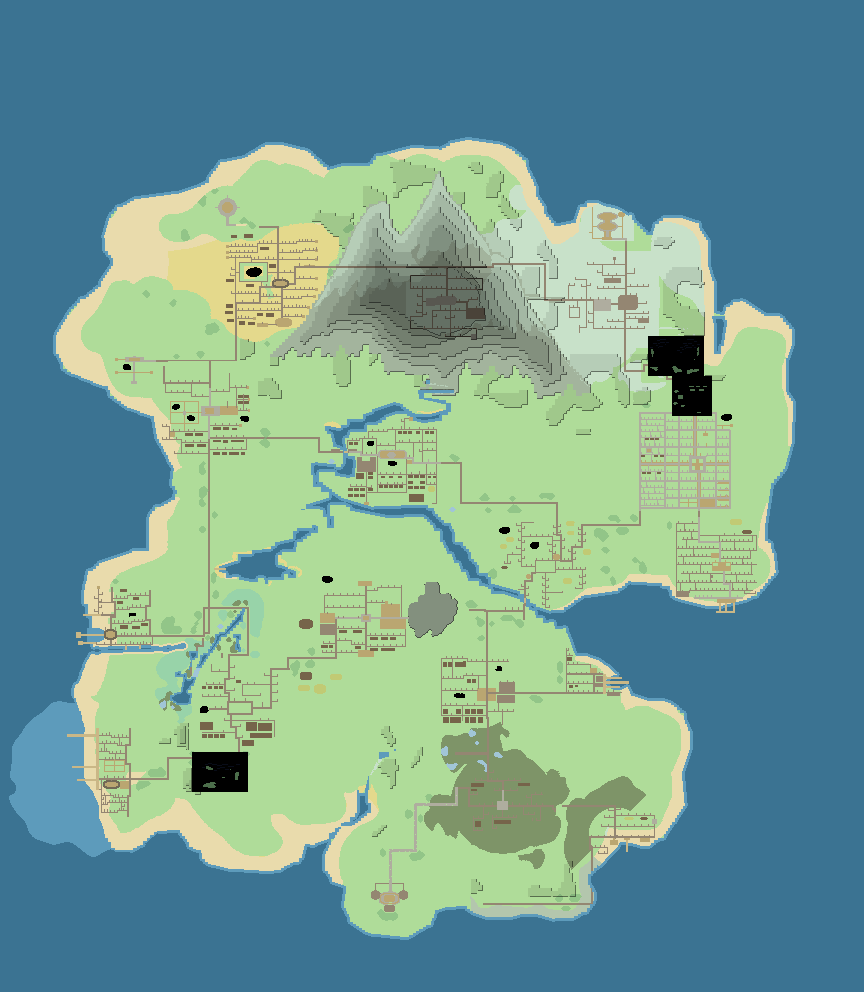
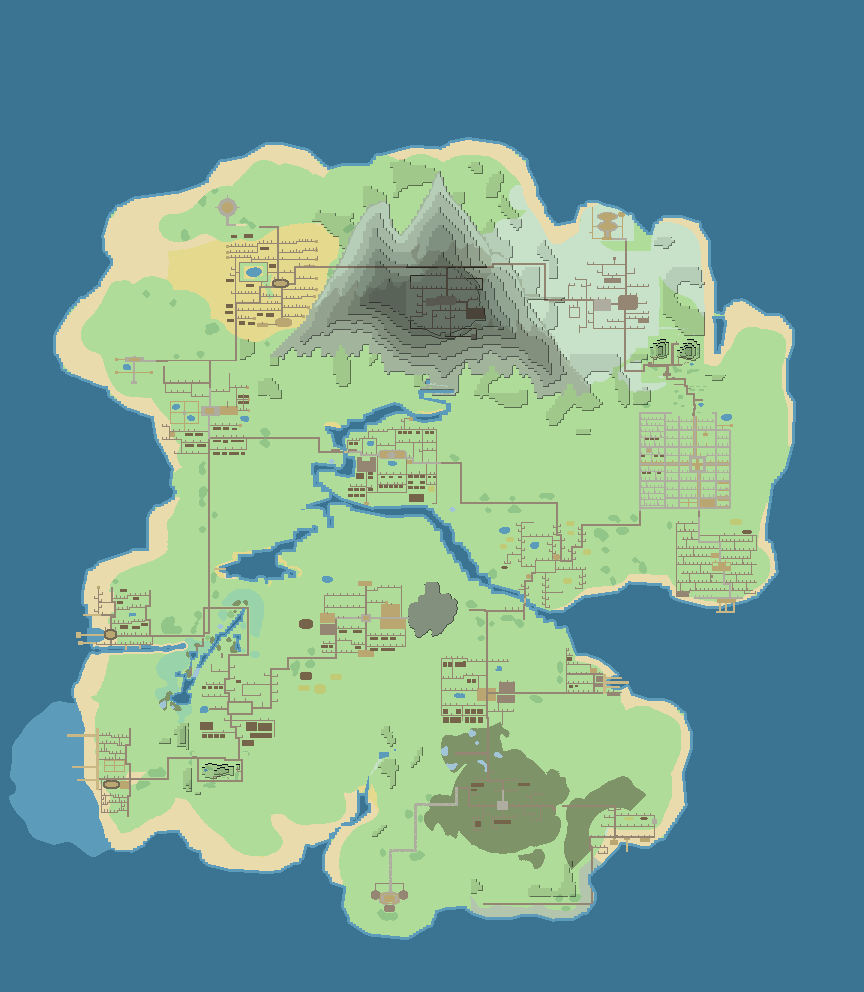
Mobile: no controls over screens; the map drags; map bake colours the lab and pond ground
- touch: on screens (menus, the map, the pause menu, the item wheel) the d-pad, A and B are hidden behind a small PAD toggle; everything there is tapped, and the button icons along the bottom are buttons; steering instructions drop out of the hints
- the world map pans with a finger; the item wheel says tap to use
- gyms on the map are a red G badge (grey once won), no labels over town names
- tools/adv-worldmap.mjs: the lab windows' materials (past the end of the palette) and village ponds get their everyday colours, no black holes in the map

Claude-Session: https://claude.ai/code/session_013d5G48wDd9cWFourTPbXme

Changed region(s): [[0.75, 0.3125, 0.8438, 0.4375], [0.2188, 0.75, 0.3125, 0.8125], [0.2812, 0.25, 0.3125, 0.2812]]

diff --git a/src/touch.js b/src/touch.js
@@ -3,12 +3,14 @@
 // (run straight from the touch handler so file pickers and the keyboard may open), swipes scroll lists, and a hidden <input> brings up the phone keyboard for text fields.
 'use strict';
 const TOUCH = window.TOUCH = (() => {
-  const T = { on: false, h: {}, p: {}, sx: 0, sy: 0 }, R = 52, SENT = String.fromCharCode(0x200b), tps = new Map(), down = {};
+  // drag: a finger moving on a screen that pans (the map asks with dragT); padOn: the PAD toggle shows A, B and the d-pad on screens
+  const T = { on: false, h: {}, p: {}, sx: 0, sy: 0, padOn: false, drag: null, dragT: 0 }, R = 52, SENT = String.fromCharCode(0x200b), tps = new Map(), down = {};
   // key (INPUT name), label, size, centre from right (or from left when negative), centre from bottom (0 = top row), when shown, colour, label in menus
   // when: all | play (walking or fighting) | fight | chat | ride | bag (an Adventure fight with items to use) | menu (a screen, not the world: the d-pad)
   const BTN = [
     ['A', 'A', 64, 92, 56, 'all', '#5ad26b'], ['B', 'B', 56, 32, 118, 'all', '#e8554e'], ['X', 'X', 56, 152, 118, 'play', '#4aa3ff'], ['Y', 'Y', 56, 92, 180, 'play', '#ffde3b'],
     ['LB', 'DODGE', 54, 214, 100, 'fight', '#c58bff', 'LB'], ['RB', 'SWAP', 50, 214, 166, 'fight', '#ff9f43', 'RB'], ['LTRT', 'MEGA', 46, 276, 134, 'fight', '#ff5fd2'],   // clear of the move bar along the bottom
+    ['PADT', 'PAD', 40, 30, 28, 'menu', '#cfd8ff'],   // screens: everything is tapped, so the pad hides behind this toggle (for anyone who wants it)
     ['START', 'MENU', 46, 36, 0, 'play', '#ffffff'], ['CHAT', 'CHAT', 46, 90, 0, 'chat', '#ffffff'], ['BACK', 'RIDE', 46, 144, 0, 'ride', '#ffffff'], ['ITEM', 'BAG', 46, 90, 0, 'bag', '#ffffff'],
     ['UP', '\u25B2', 46, -78, 140, 'menu', '#cfd8ff'], ['DOWN', '\u25BC', 46, -78, 44, 'menu', '#cfd8ff'], ['LEFT', '\u25C0', 46, -30, 92, 'menu', '#cfd8ff'], ['RIGHT', '\u25B6', 46, -126, 92, 'menu', '#cfd8ff'],
   ];
@@ -75,7 +77,8 @@ const TOUCH = window.TOUCH = (() => {
     const m = !stickOK() && !(typeof TitleScene !== 'undefined' && SCENE === TitleScene);   // a screen, not the world: the d-pad, A and B (the other buttons are the icons in its hint, ui.js)
     root.classList.toggle('menu', m); root.classList.toggle('fight', f);
     for (const k in els) {
-      const e = els[k], w = e.dataset.when, on = (w === 'bag' && bag) || w === 'all' || (w === 'play' && p) || (w === 'fight' && p && f && !m) || (w === 'chat' && c) || (w === 'ride' && r) || (w === 'menu' && m);
+      const e = els[k], w = e.dataset.when, pad = m && T.padOn && k !== 'PADT';   // on screens A, B and the d-pad only show when PAD is on
+      const on = (w === 'bag' && bag) || (w === 'all' && (!m || pad)) || (w === 'play' && p) || (w === 'fight' && p && f && !m) || (w === 'chat' && c) || (w === 'ride' && r) || (w === 'menu' && m && (k === 'PADT' || pad));
       e.style.display = on ? 'flex' : 'none';
       const l = m ? e.dataset.ml : e.dataset.l; if (e.textContent !== l) { e.textContent = l; e.classList.toggle('sm', l.length > 1); }
     }
@@ -110,7 +113,7 @@ const TOUCH = window.TOUCH = (() => {
     for (const t of e.changedTouches) {
       const b = t.target.closest && t.target.closest('[data-k]'), o = { x0: t.clientX, y0: t.clientY, x: t.clientX, y: t.clientY, t0: performance.now(), acc: 0, swipe: false };
       MOUSE.x = t.clientX; MOUSE.y = t.clientY; MOUSE.moved = performance.now();
-      if (b) { o.k = b.dataset.k; if (o.k !== 'CHAT') hold(o.k, 1); }
+      if (b) { o.k = b.dataset.k; if (o.k !== 'CHAT' && o.k !== 'PADT') hold(o.k, 1); }
       else if (sid === null && stickOK() && t.clientX < innerWidth * 0.55) { sid = t.identifier; o.stick = true; ox = t.clientX; oy = t.clientY; base.style.display = 'block'; base.style.left = ox - R + 'px'; base.style.top = oy - R + 'px'; setStick(ox, oy); }
       tps.set(t.identifier, o);
     }
@@ -121,6 +124,7 @@ const TOUCH = window.TOUCH = (() => {
       const o = tps.get(t.identifier); if (!o) continue;
       if (o.stick) setStick(t.clientX, t.clientY);
       else if (!o.k && pinch(t, o)) continue;
+      else if (!o.k && performance.now() - T.dragT < 300) { T.drag = { dx: (T.drag?.dx || 0) + t.clientX - o.x, dy: (T.drag?.dy || 0) + t.clientY - o.y }; if (Math.hypot(t.clientX - o.x0, t.clientY - o.y0) > 12) o.swipe = true; }   // a screen that pans (the map): the finger drags it
       else if (!o.k) {   // a swipe scrolls whatever list is under the finger
         MOUSE.x = t.clientX; MOUSE.y = t.clientY; o.acc += o.y - t.clientY;
         while (Math.abs(o.acc) >= 38) { const s = Math.sign(o.acc); MOUSE.wheel += s; o.acc -= s * 38; o.swipe = true; }
@@ -141,6 +145,7 @@ const TOUCH = window.TOUCH = (() => {
     e.preventDefault();
     for (const t of e.changedTouches) {
       const o = tps.get(t.identifier); if (!o) continue; tps.delete(t.identifier);
+      if (o.k === 'PADT') { if (!cancel) { T.padOn = !T.padOn; els.PADT.classList.toggle('dn', T.padOn); } continue; }
       if (o.k) { if (o.k === 'CHAT') { if (!cancel) { KEYS.Enter = true; setTimeout(() => KEYS.Enter = false, 140); T.kbd(); } } else hold(o.k, -1); continue; }
       if (o.stick) { sid = null; T.sx = T.sy = 0; knob.style.transform = ''; }
       if (!cancel && !o.swipe && performance.now() - o.t0 < 380 && Math.hypot(t.clientX - o.x0, t.clientY - o.y0) < 16) tap(t.clientX, t.clientY);

diff --git a/src/adv-map.js b/src/adv-map.js
@@ -83,6 +83,7 @@ const ADVMAP = {
         if (!mx) mx = INPUT.mx; if (!my) my = INPUT.my;
         if (mx || my) { st.ms = false; st.cx += mx * 420 / z() * dt; st.cy += my * 420 / z() * dt; }
         if (INPUT.hit('TABR')) zoom(1); if (INPUT.hit('TABL')) zoom(-1);
+        if (window.TOUCH?.on) { TOUCH.dragT = performance.now(); const d = TOUCH.drag; if (d) { st.ms = false; st.cx -= d.dx / z(); st.cy -= d.dy / z(); TOUCH.drag = null; } }   // touch: a finger drags the map
         if (MOUSE.hit) { st.ms = true; st.drag = { x: MOUSE.x, y: MOUSE.y, cx: st.cx, cy: st.cy, mv: false }; }
         if (st.drag) {
           const d = st.drag;
@@ -106,7 +107,7 @@ const ADVMAP = {
           const g = id[0] === 'G', l = id[0] === 'L';
           A.sq(x, y, g ? 9 : 7, g ? '#ffde3b' : l ? '#7fd0e8' : '#fff'); text(t.name, x, y - 13, 11, g ? '#ffde3b' : l ? '#7fd0e8' : '#fff', 'center', '#101428', 'Silkscreen');
         }
-        for (const gy of A.gyms()) { const [x, y] = scr(gy.x / T, gy.y / T); if (!on(x, y, 60)) continue; const won = !!sc.save.beat?.[gy.id]; A.sq(x, y, 9, won ? '#888' : '#ff3b30'); text(won ? 'GYM (won)' : 'GYM', x, y + 13, 11, won ? '#bbb' : '#ff9a8a', 'center', '#101428', 'Silkscreen'); }
+        for (const gy of A.gyms()) { const [x, y] = scr(gy.x / T, gy.y / T); if (!on(x, y, 60)) continue; const won = !!sc.save.beat?.[gy.id]; ctx.beginPath(); ctx.arc(x, y, 8, 0, 6.2832); ctx.fillStyle = won ? '#777' : '#e8402e'; ctx.fill(); ctx.lineWidth = 2; ctx.strokeStyle = '#101428'; ctx.stroke(); text('G', x, y + 1, 10, '#fff', 'center', null); }   // a gym: a red G badge (grey once won)
         { const G = A.goal(sc); if (G.x !== undefined) { const [x, y] = scr(G.x / T, G.y / T); if (on(x, y)) A.pin(x, y - 6, pk + 0.5); } }   // the NEXT GOAL
         if (N && !sc.room) for (const v of N.vis.values()) { const [x, y] = scr(v.x / T, v.y / T); if (!on(x, y)) continue; A.sq(x, y, 5, '#7be07b'); if (st.zi >= 2) text(N.roster.get(v.pid)?.name || '', x, y - 9, 11, '#7be07b', 'center', '#101428', 'Silkscreen'); }
         for (const p of w) { const [x, y] = scr(p.x / T, p.y / T); if (on(x, y)) { A.pin(x, y, pk); text(p.name, x, y - 12 * pk - 7, 11, '#fff', 'center', '#101428', 'Silkscreen'); } }
@@ -132,7 +133,7 @@ const ADVMAP = {
           });
         }
         if (st.nt > 0) text(st.note, VW / 2, by - 14, Math.max(14, L(17)), '#9f9', 'center', '#101428');
-        hint(padUI() ? (window.TOUCH?.on ? 'd-pad pan' : 'stick pan') + '   LB/RB zoom   ' + (window.TOUCH?.on ? 'tap or A' : 'A') + ' waypoint   X remove   B back' : 'WASD or drag pan   wheel zoom   Enter or click waypoint   X remove   M or Esc back');
+        hint(padUI() ? (window.TOUCH?.on ? 'drag to pan' : 'stick pan') + '   LB/RB zoom   ' + (window.TOUCH?.on ? 'tap or A' : 'A') + ' waypoint   X remove   B back' : 'WASD or drag pan   wheel zoom   Enter or click waypoint   X remove   M or Esc back');
         backButton(() => sc.close());
       },
     };

diff --git a/src/ui.js b/src/ui.js
@@ -11,6 +11,7 @@ const HINT_ICONS = { A: 'xbox_a', B: 'xbox_b', X: 'xbox_x', Y: 'xbox_y', LB: 'xb
 const ICON_KEY = { xbox_a: 'A', xbox_b: 'B', xbox_x: 'X', xbox_y: 'Y', xbox_lb: 'LB', xbox_rb: 'RB', xbox_lt: 'LT', xbox_rt: 'RT' };
 // On a touch screen the button icons in the hint are buttons themselves (touch.js only draws A, B and a d-pad on screens), so X / Y / LB / RB / LT / RT stay reachable without covering anything.
 function hint(s, y = VH - 26) {
+  if (window.TOUCH?.on && !TOUCH.padOn) s = s.split(/\s{3,}/).filter(p => !/d-pad|left\/right|\bstick\b|up\/down|arrows|scroll/i.test(p)).join('   ');   // touch: the pad is hidden on screens, so no steering instructions
   const parts = s.split(/(\bleft\/right\b|\b(?:A|B|X|Y|LB|RB|LT|RT|Delete|F2|Enter|Esc)\b)/).filter(Boolean).map(p => HINT_ICONS[p] || p);
   const tap = window.TOUCH?.on ? (name, ix, iw) => { const k = ICON_KEY[name]; if (k) hot(ix - 8, y - 22, iw + 16, 44, { click: () => { TOUCH.p[k] = true; } }); } : null;
   iconRow(parts, VW / 2, y, 32, Math.max(12, 14 * S()), '#ccd', 'center', false, tap);

diff --git a/src/adv-ui.js b/src/adv-ui.js
@@ -680,6 +680,6 @@ const ADVUI = {
     const sel = its[w.sel]; if (sel) {
       const it = ADVP.item(sel); text(it.name, cx, cy - L(18), L(24), '#fff', 'center'); text(cd ? `Ready in ${Math.ceil(sc.itemCd)}` : it.info, cx, cy + L(16), L(13), cd ? '#ff9a9a' : '#9aa6c0', 'center', null);
     }
-    hint(padUI() ? 'D-pad pick   A use   B close' : 'Click or 1-6 to use   C or Esc close');
+    hint(window.TOUCH?.on ? 'Tap an item to use it   B close' : padUI() ? 'D-pad pick   A use   B close' : 'Click or 1-6 to use   C or Esc close');
   },
 };
